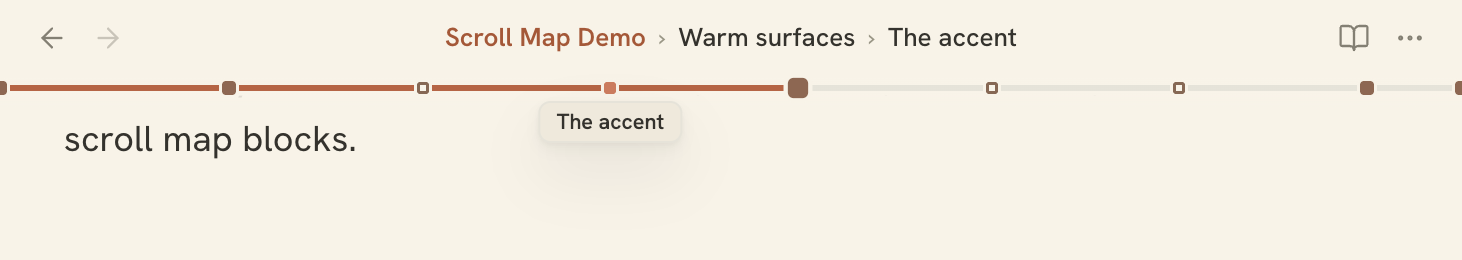
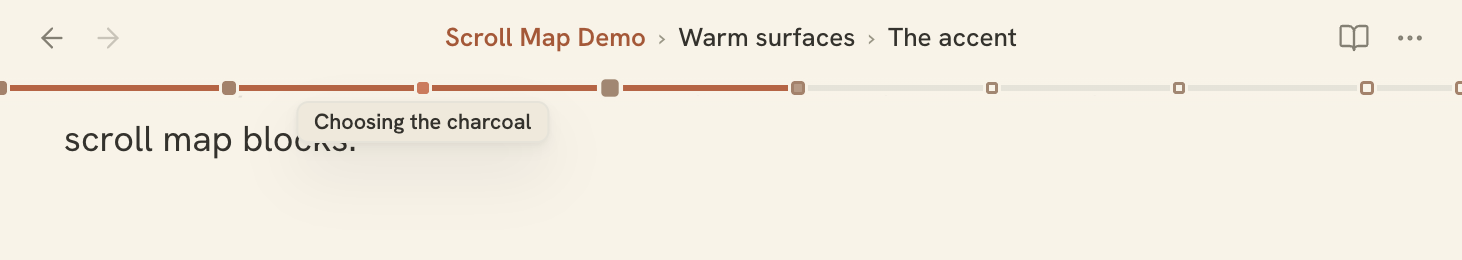
v1.2.2 — hollow markers fill in as the line reaches them
- Markers now start hollow (outline only) and fill with their color the
  moment the progress line passes them — solid = read, hollow = ahead.
  Pure CSS: each marker gets a per-position animation-range on the same
  scroll timeline as the fill (--cc-dot-frac exported by the plugin)
- Softer light-mode marker palette: mixes lean on the faint warm gray
  so outlines don't read harsh on cream
- Cascade hardening: plugin CSS loads after theme CSS, so baseline rules
  won specificity ties and overrode theme styling — all theme scroll-map
  selectors now carry a body prefix that guarantees theme precedence,
  and hollow backgrounds are explicit on the per-level rules
- Plugin baseline styles.css rewritten clean (had drifted from a silent
  patch failure that left a stale --text-faint rule shipping)
- Reduced-motion exception extended to the marker fill-in (scroll-linked,
  not autonomous motion)
- README screenshots refreshed to show the hollow/filled split

diff --git a/theme.css b/theme.css
@@ -1446,7 +1446,7 @@ body.cc-scroll-progress.is-mobile .workspace-leaf-content[data-type="markdown"] 
 /* --- Claude Scroll Map (companion plugin) — heading dots on the bar ---
    The plugin renders .cc-scroll-map > .cc-scroll-dot[data-level] into
    each note and handles positioning/clicks; all cosmetics live here. */
-.cc-scroll-map {
+body .cc-scroll-map {
     position: absolute;
     top: 0; left: 0; right: 0;
     height: 12px;                    /* hover zone for the strip */
@@ -1458,7 +1458,7 @@ body.cc-scroll-progress.is-mobile .workspace-leaf-content[data-type="markdown"] 
    bar toggled off, the plugin's own gradient band stays so markers never
    float naked over note text. */
 body.cc-scroll-progress .cc-scroll-map { background: none; }
-.cc-scroll-map:hover { height: 24px; }   /* roomier target while aiming */
+body .cc-scroll-map:hover { height: 24px; }   /* roomier target while aiming */
 /* Mobile is progress-bar-only: no room for legible dots, no hover */
 body.is-mobile .cc-scroll-map { display: none; }
 /* Headings as terminal blocks: rounded squares (block cursors) centered
@@ -1468,14 +1468,20 @@ body.is-mobile .cc-scroll-map { display: none; }
    dark mode mixes toward the deep surfaces instead — mixing with light
    grays on charcoal washes everything to the same pale salmon. */
 body {
-    --cc-map-h2: color-mix(in srgb, var(--cc-accent) 45%, var(--cc-text-muted));
-    --cc-map-h3: color-mix(in srgb, var(--cc-accent) 35%, var(--cc-text-muted));
+    /* soft warm marker colors — light mode leans gentle, toward the
+       faint warm gray, so hollow outlines don't read harsh on cream */
+    --cc-map-h2: color-mix(in srgb, var(--cc-accent) 40%, var(--cc-text-faint));
+    --cc-map-h3: color-mix(in srgb, var(--cc-accent) 30%, var(--cc-text-faint));
 }
 body.theme-dark {
     --cc-map-h2: color-mix(in srgb, var(--cc-accent) 55%, var(--cc-bg-deep));
     --cc-map-h3: color-mix(in srgb, var(--cc-accent) 45%, var(--cc-bg-deep));
 }
-.cc-scroll-map .cc-scroll-dot {
+/* Markers start HOLLOW (outline only) and fill with their color the
+   moment the progress line reaches them — the same scroll timeline as
+   the fill, with a per-marker animation-range at the marker's own
+   position (--cc-dot-frac, set by the plugin). */
+body .cc-scroll-map .cc-scroll-dot {
     position: absolute;
     top: 5.5px;                       /* the line's center */
     /* --cc-mag: dock-style fisheye magnification, set by the plugin on
@@ -1483,38 +1489,48 @@ body.theme-dark {
     transform: translate(-50%, -50%) scale(var(--cc-mag, 1));
     width: 7px; height: 7px;          /* H2 default */
     padding: 0;
-    border: none;
     border-radius: 2px;
-    background: var(--cc-map-h2);
-    box-shadow: 0 0 0 1.5px var(--cc-bg);   /* halo ring */
+    --cc-dot-color: var(--cc-map-h2);
+    background: var(--cc-bg);         /* hollow: bg center… */
+    border: 1.5px solid var(--cc-dot-color);  /* …outlined */
+    box-shadow: 0 0 0 1.5px var(--cc-bg);     /* halo ring */
     cursor: pointer;
-    transition: height 130ms ease, width 130ms ease, background 130ms ease,
+    transition: height 130ms ease, width 130ms ease,
         transform 60ms ease-out;
+    animation: cc-scroll-dot-pass linear both;
+    animation-timeline: --cc-note-scroll;
+    animation-range:
+        calc(var(--cc-dot-frac, 0) * 100%)
+        calc(var(--cc-dot-frac, 0) * 100% + 0.5%);
 }
-.cc-scroll-map .cc-scroll-dot[data-level="1"] {
+@keyframes cc-scroll-dot-pass {
+    to { background: var(--cc-dot-color); }
+}
+body .cc-scroll-map .cc-scroll-dot[data-level="1"] {
     width: 10px; height: 10px;
     border-radius: 3px;
-    background: var(--cc-accent);
+    --cc-dot-color: var(--cc-accent);
+    background: var(--cc-bg);   /* explicit: outranks baseline level rule */
 }
-/* H3: hollow — filled-vs-outlined separates levels at a glance and keeps
-   heading-dense strips airy */
-.cc-scroll-map .cc-scroll-dot[data-level="3"] {
+body .cc-scroll-map .cc-scroll-dot[data-level="3"] {
     width: 6px; height: 6px;
     border-radius: 1.5px;
-    background: var(--cc-bg);
-    border: 1.5px solid var(--cc-map-h3);
+    --cc-dot-color: var(--cc-map-h3);
+    background: var(--cc-bg);   /* explicit: outranks baseline level rule */
 }
 /* Hovering the strip: blocks grow TALLER, barely wider — vertical growth
    keeps dense clusters from colliding sideways */
-.cc-scroll-map:hover .cc-scroll-dot                   { width: 8px;  height: 12px; }
-.cc-scroll-map:hover .cc-scroll-dot[data-level="1"]  { width: 12px; height: 16px; }
-.cc-scroll-map:hover .cc-scroll-dot[data-level="3"]  { width: 7px;  height: 10px; }
-.cc-scroll-map .cc-scroll-dot:hover, .cc-scroll-map .cc-scroll-dot.cc-hovered {
-    background: var(--cc-accent-bright, var(--cc-accent));
+body .cc-scroll-map:hover .cc-scroll-dot                   { width: 8px;  height: 12px; }
+body .cc-scroll-map:hover .cc-scroll-dot[data-level="1"]  { width: 12px; height: 16px; }
+body .cc-scroll-map:hover .cc-scroll-dot[data-level="3"]  { width: 7px;  height: 10px; }
+/* !important: the pass animation's fill mode owns `background` in the
+   cascade, so the highlight has to outrank it */
+body .cc-scroll-map .cc-scroll-dot:hover, body .cc-scroll-map .cc-scroll-dot.cc-hovered {
+    background: var(--cc-accent-bright, var(--cc-accent)) !important;
     border-color: var(--cc-accent-bright, var(--cc-accent));
 }
 /* Heading-name tooltip — 60% of body text size, tracks the tick height */
-.cc-scroll-map .cc-scroll-dot::after {
+body .cc-scroll-map .cc-scroll-dot::after {
     content: attr(data-label);
     position: absolute;
     top: calc(100% + 5px);
@@ -1537,7 +1553,7 @@ body.theme-dark {
     padding: 2px 8px;
     box-shadow: var(--shadow-s, 0 2px 8px rgb(0 0 0 / 0.15));
 }
-.cc-scroll-map .cc-scroll-dot:hover::after, .cc-scroll-map .cc-scroll-dot.cc-hovered::after { display: block; }
+body .cc-scroll-map .cc-scroll-dot:hover::after, body .cc-scroll-map .cc-scroll-dot.cc-hovered::after { display: block; }
 
 /* =====================================================================
    11. REDUCED MOTION  —  honour the OS "reduce motion" setting
@@ -1553,10 +1569,11 @@ body.theme-dark {
         animation-iteration-count: 1 !important;
         scroll-behavior: auto !important;
     }
-    /* The scroll progress fill is scroll-linked, not autonomous motion —
-       a forced time duration would pin it at 100%. Restore the timeline
-       mapping. */
-    body.cc-scroll-progress .workspace-leaf-content[data-type="markdown"] .view-content::after {
+    /* The scroll progress fill and the marker fill-in are scroll-linked,
+       not autonomous motion — a forced time duration would pin them at
+       100%. Restore the timeline mapping. */
+    body.cc-scroll-progress .workspace-leaf-content[data-type="markdown"] .view-content::after,
+    body .cc-scroll-map .cc-scroll-dot {
         animation-duration: auto !important;
     }
 }

diff --git a/companion/claude-scroll-map/styles.css b/companion/claude-scroll-map/styles.css
@@ -1,6 +1,8 @@
 /* Claude Scroll Map — structural baseline only.
-   The Claude Code theme restyles all of this (colors, sizes, tooltip);
-   these rules just keep the plugin usable with any theme. */
+   The Claude Code theme restyles all of this (colors, sizes, hollow
+   fill-in, tooltip) with `body`-prefixed selectors that deliberately
+   out-rank these; the rules here just keep the plugin usable with any
+   theme. */
 
 .cc-scroll-map {
   position: absolute;
@@ -23,7 +25,7 @@ body.is-mobile .cc-scroll-map {
   display: none;
 }
 
-/* Headings as terminal blocks — bigger square = bigger heading */
+/* Headings as blocks — bigger block = bigger heading */
 .cc-scroll-map .cc-scroll-dot {
   position: absolute;
   top: 5.5px;
@@ -36,13 +38,23 @@ body.is-mobile .cc-scroll-map {
   background: var(--text-muted);
   box-shadow: 0 0 0 1.5px var(--background-primary);
   cursor: pointer;
-  transition: height 130ms ease, width 130ms ease;
+  transition: height 130ms ease, width 130ms ease, transform 60ms ease-out;
 }
-.cc-scroll-map .cc-scroll-dot[data-level="1"] { width: 10px; height: 10px; border-radius: 3px; background: var(--text-accent); }
-.cc-scroll-map .cc-scroll-dot[data-level="3"] { width: 5px;  height: 5px;  border-radius: 1.5px; background: var(--text-faint); }
-.cc-scroll-map:hover .cc-scroll-dot                  { width: 9px;  height: 9px; }
-.cc-scroll-map:hover .cc-scroll-dot[data-level="1"] { width: 13px; height: 13px; }
-.cc-scroll-map:hover .cc-scroll-dot[data-level="3"] { width: 7px;  height: 7px; }
+.cc-scroll-map .cc-scroll-dot[data-level="1"] {
+  width: 10px;
+  height: 10px;
+  border-radius: 3px;
+  background: var(--text-accent);
+}
+.cc-scroll-map .cc-scroll-dot[data-level="3"] {
+  width: 6px;
+  height: 6px;
+  border-radius: 1.5px;
+  background: var(--text-faint);
+}
+.cc-scroll-map:hover .cc-scroll-dot                  { width: 8px;  height: 12px; }
+.cc-scroll-map:hover .cc-scroll-dot[data-level="1"] { width: 12px; height: 16px; }
+.cc-scroll-map:hover .cc-scroll-dot[data-level="3"] { width: 7px;  height: 10px; }
 
 .cc-scroll-map .cc-scroll-dot::after {
   content: attr(data-label);

diff --git a/companion/claude-scroll-map/main.js b/companion/claude-scroll-map/main.js
@@ -124,6 +124,10 @@ module.exports = class ClaudeScrollMap extends Plugin {
       // native black tooltip on top of the styled one
       dot.dataset.label = h.heading;
       dot.style.left = (frac * 100).toFixed(2) + '%';
+      // scroll fraction at which the progress fill reaches this marker —
+      // the theme's hollow→solid animation keys off it (clamped so
+      // end-of-note markers still trigger)
+      dot.style.setProperty('--cc-dot-frac', Math.min(frac, 0.995).toFixed(4));
       dot.addEventListener('click', (evt) => {
         evt.preventDefault();
         view.setEphemeralState({ line: h.position.start.line });